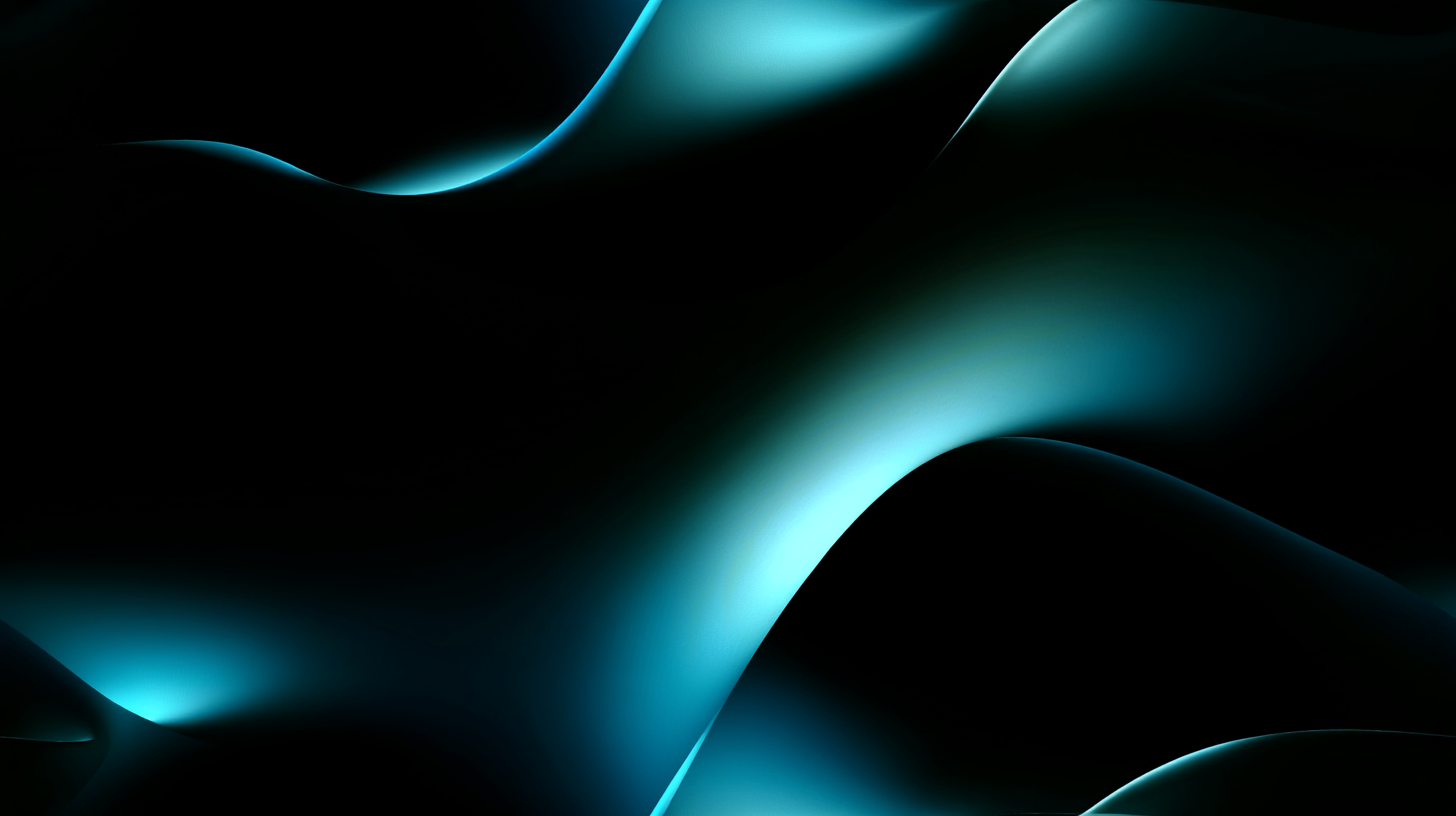
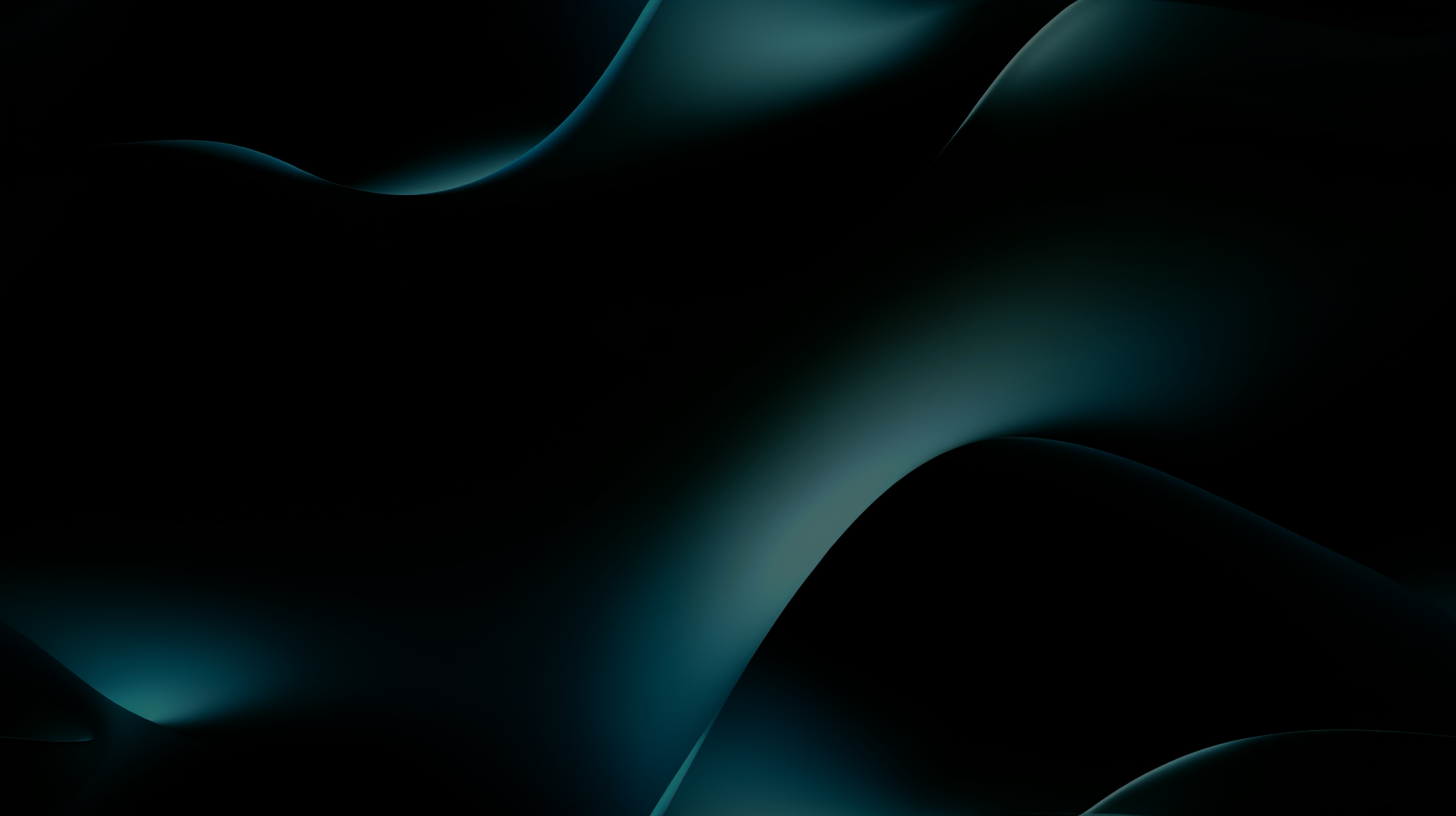
dimmed background

diff --git a/.vscode/industry/robotics/robotics-aboutme.html b/.vscode/industry/robotics/robotics-aboutme.html
@@ -24,7 +24,7 @@
         <img src="../../images/robotics/aboutme/Viraj.png" id="parallax-4">
         <img src="../../images/robotics/aboutme/Aman.png" id="parallax-5">
     </section>
-    <section class="side-by-side sec ">
+    <section class="side-by-side sec ai-section">
         <div class="ai-block left-block">
             <h2 class="ai-title">Aman</h2>
             <div class="ai-desc">
